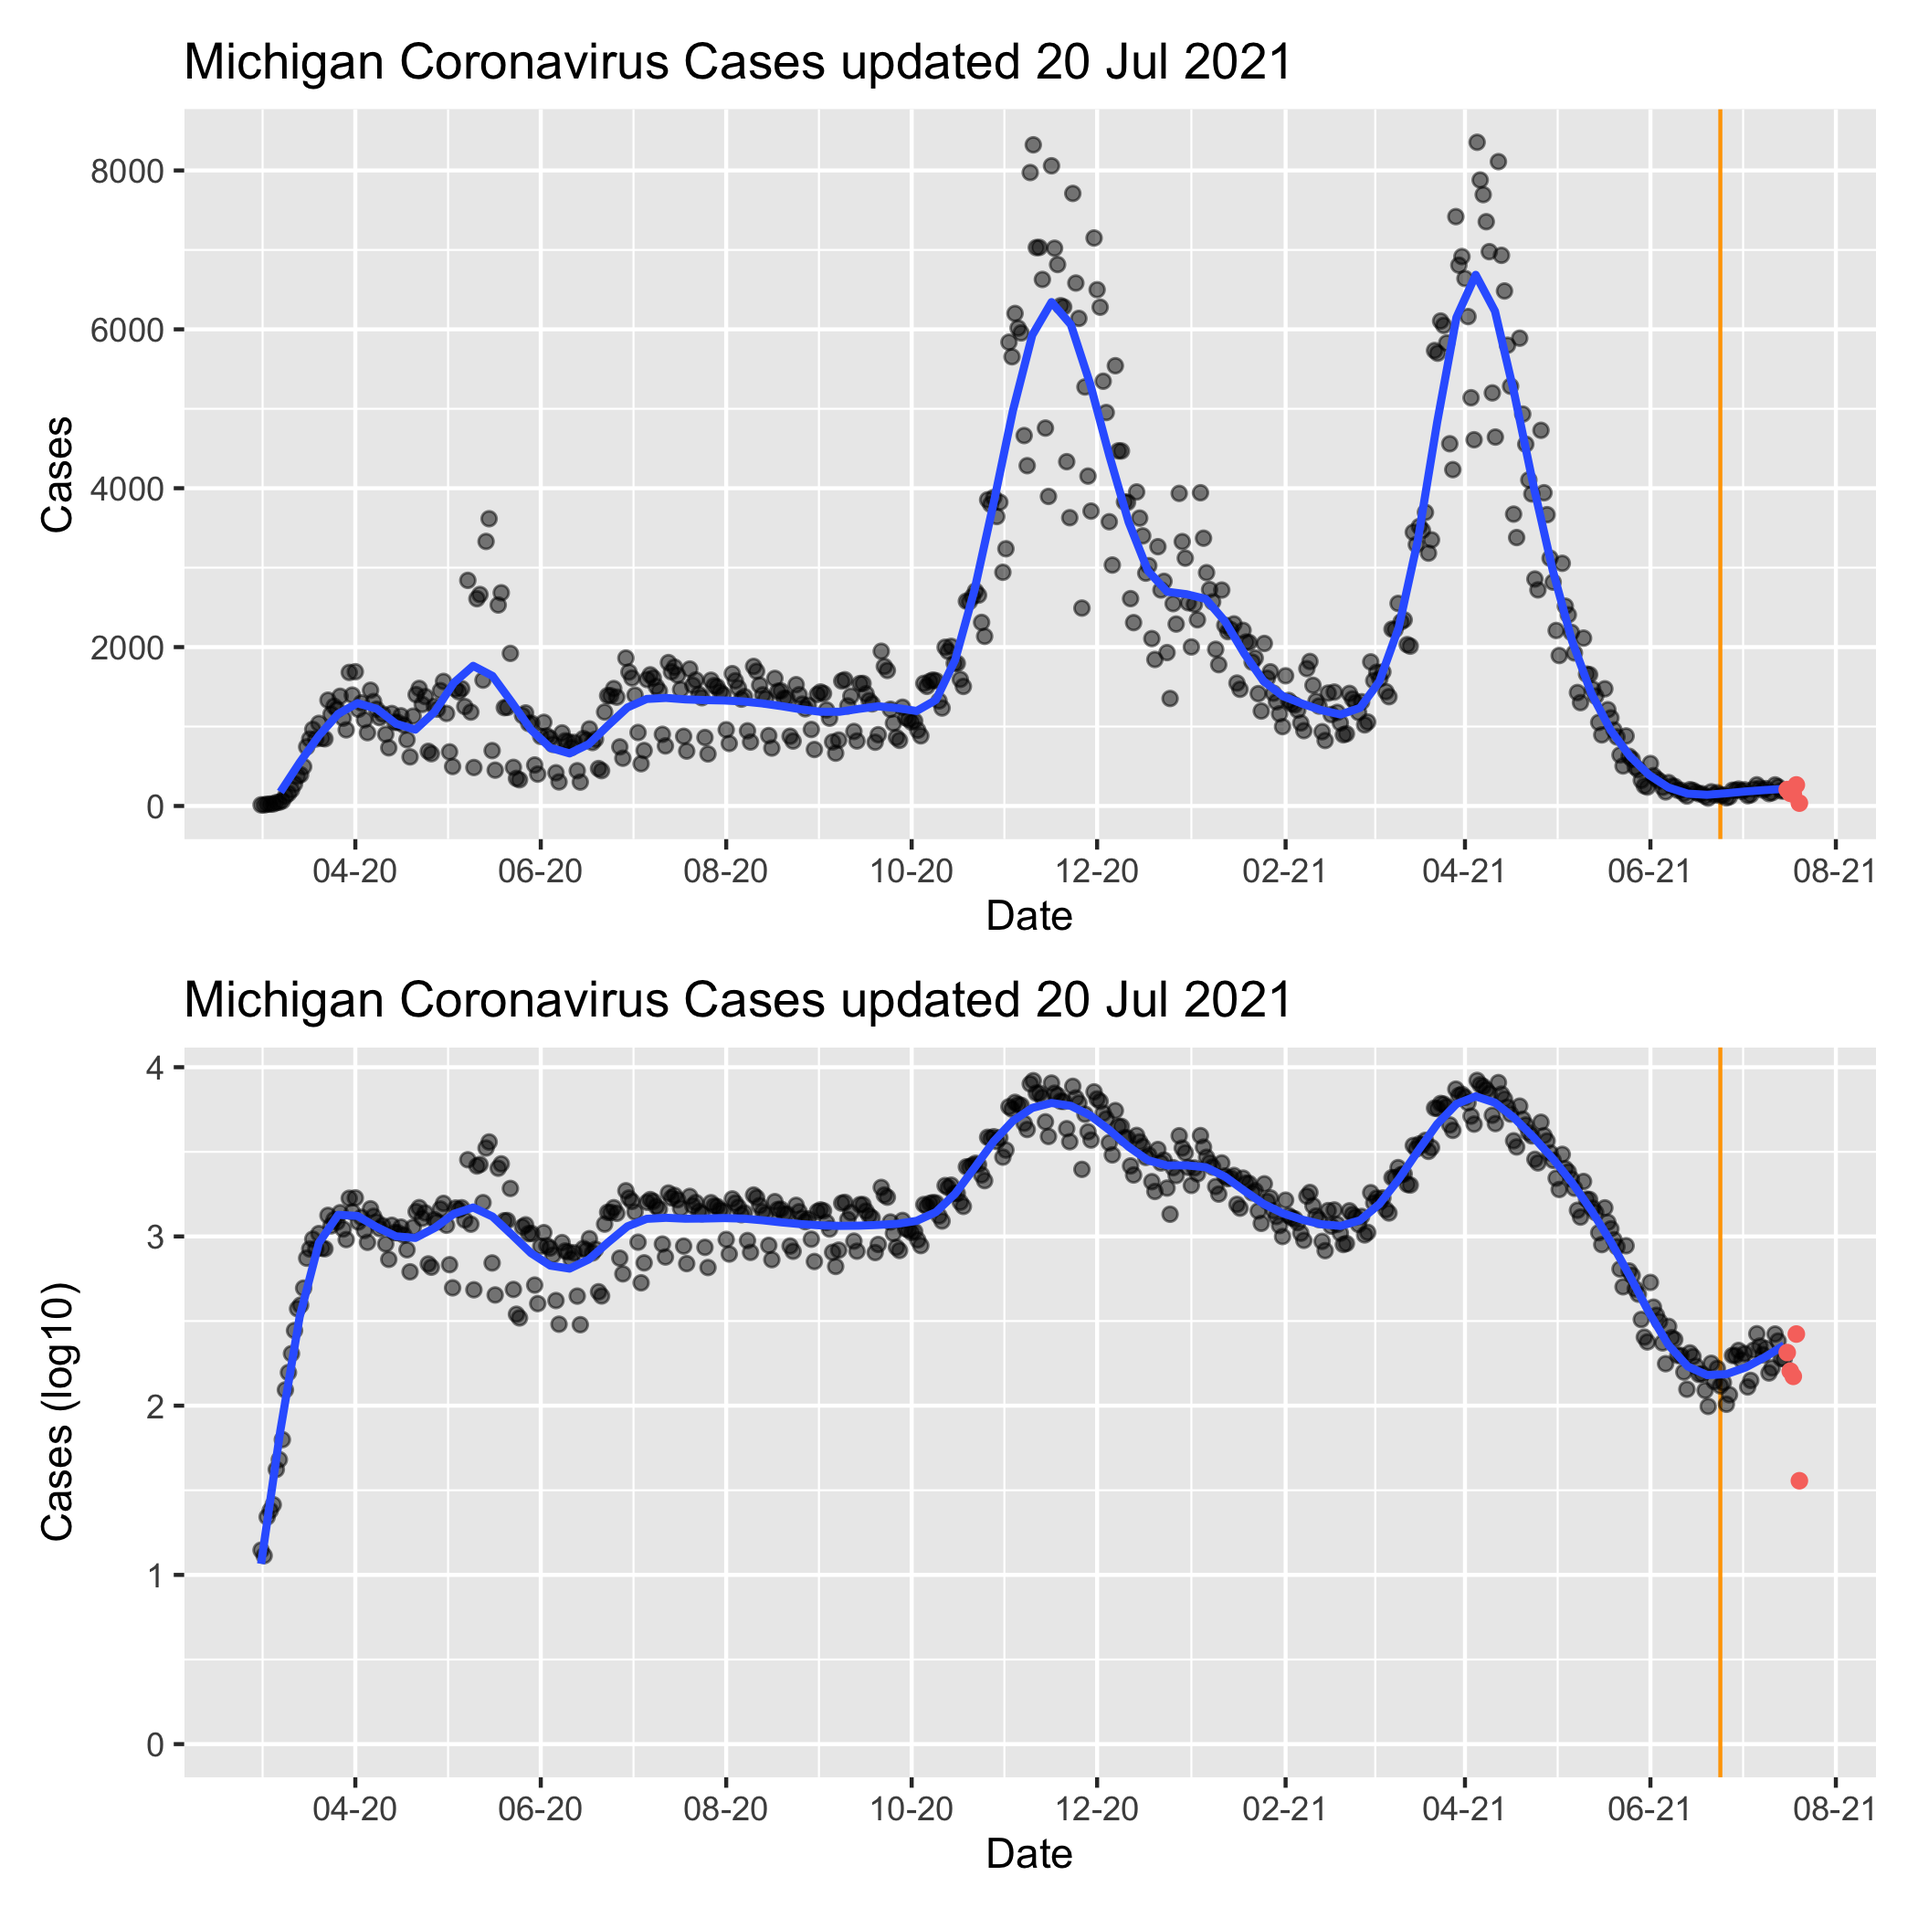
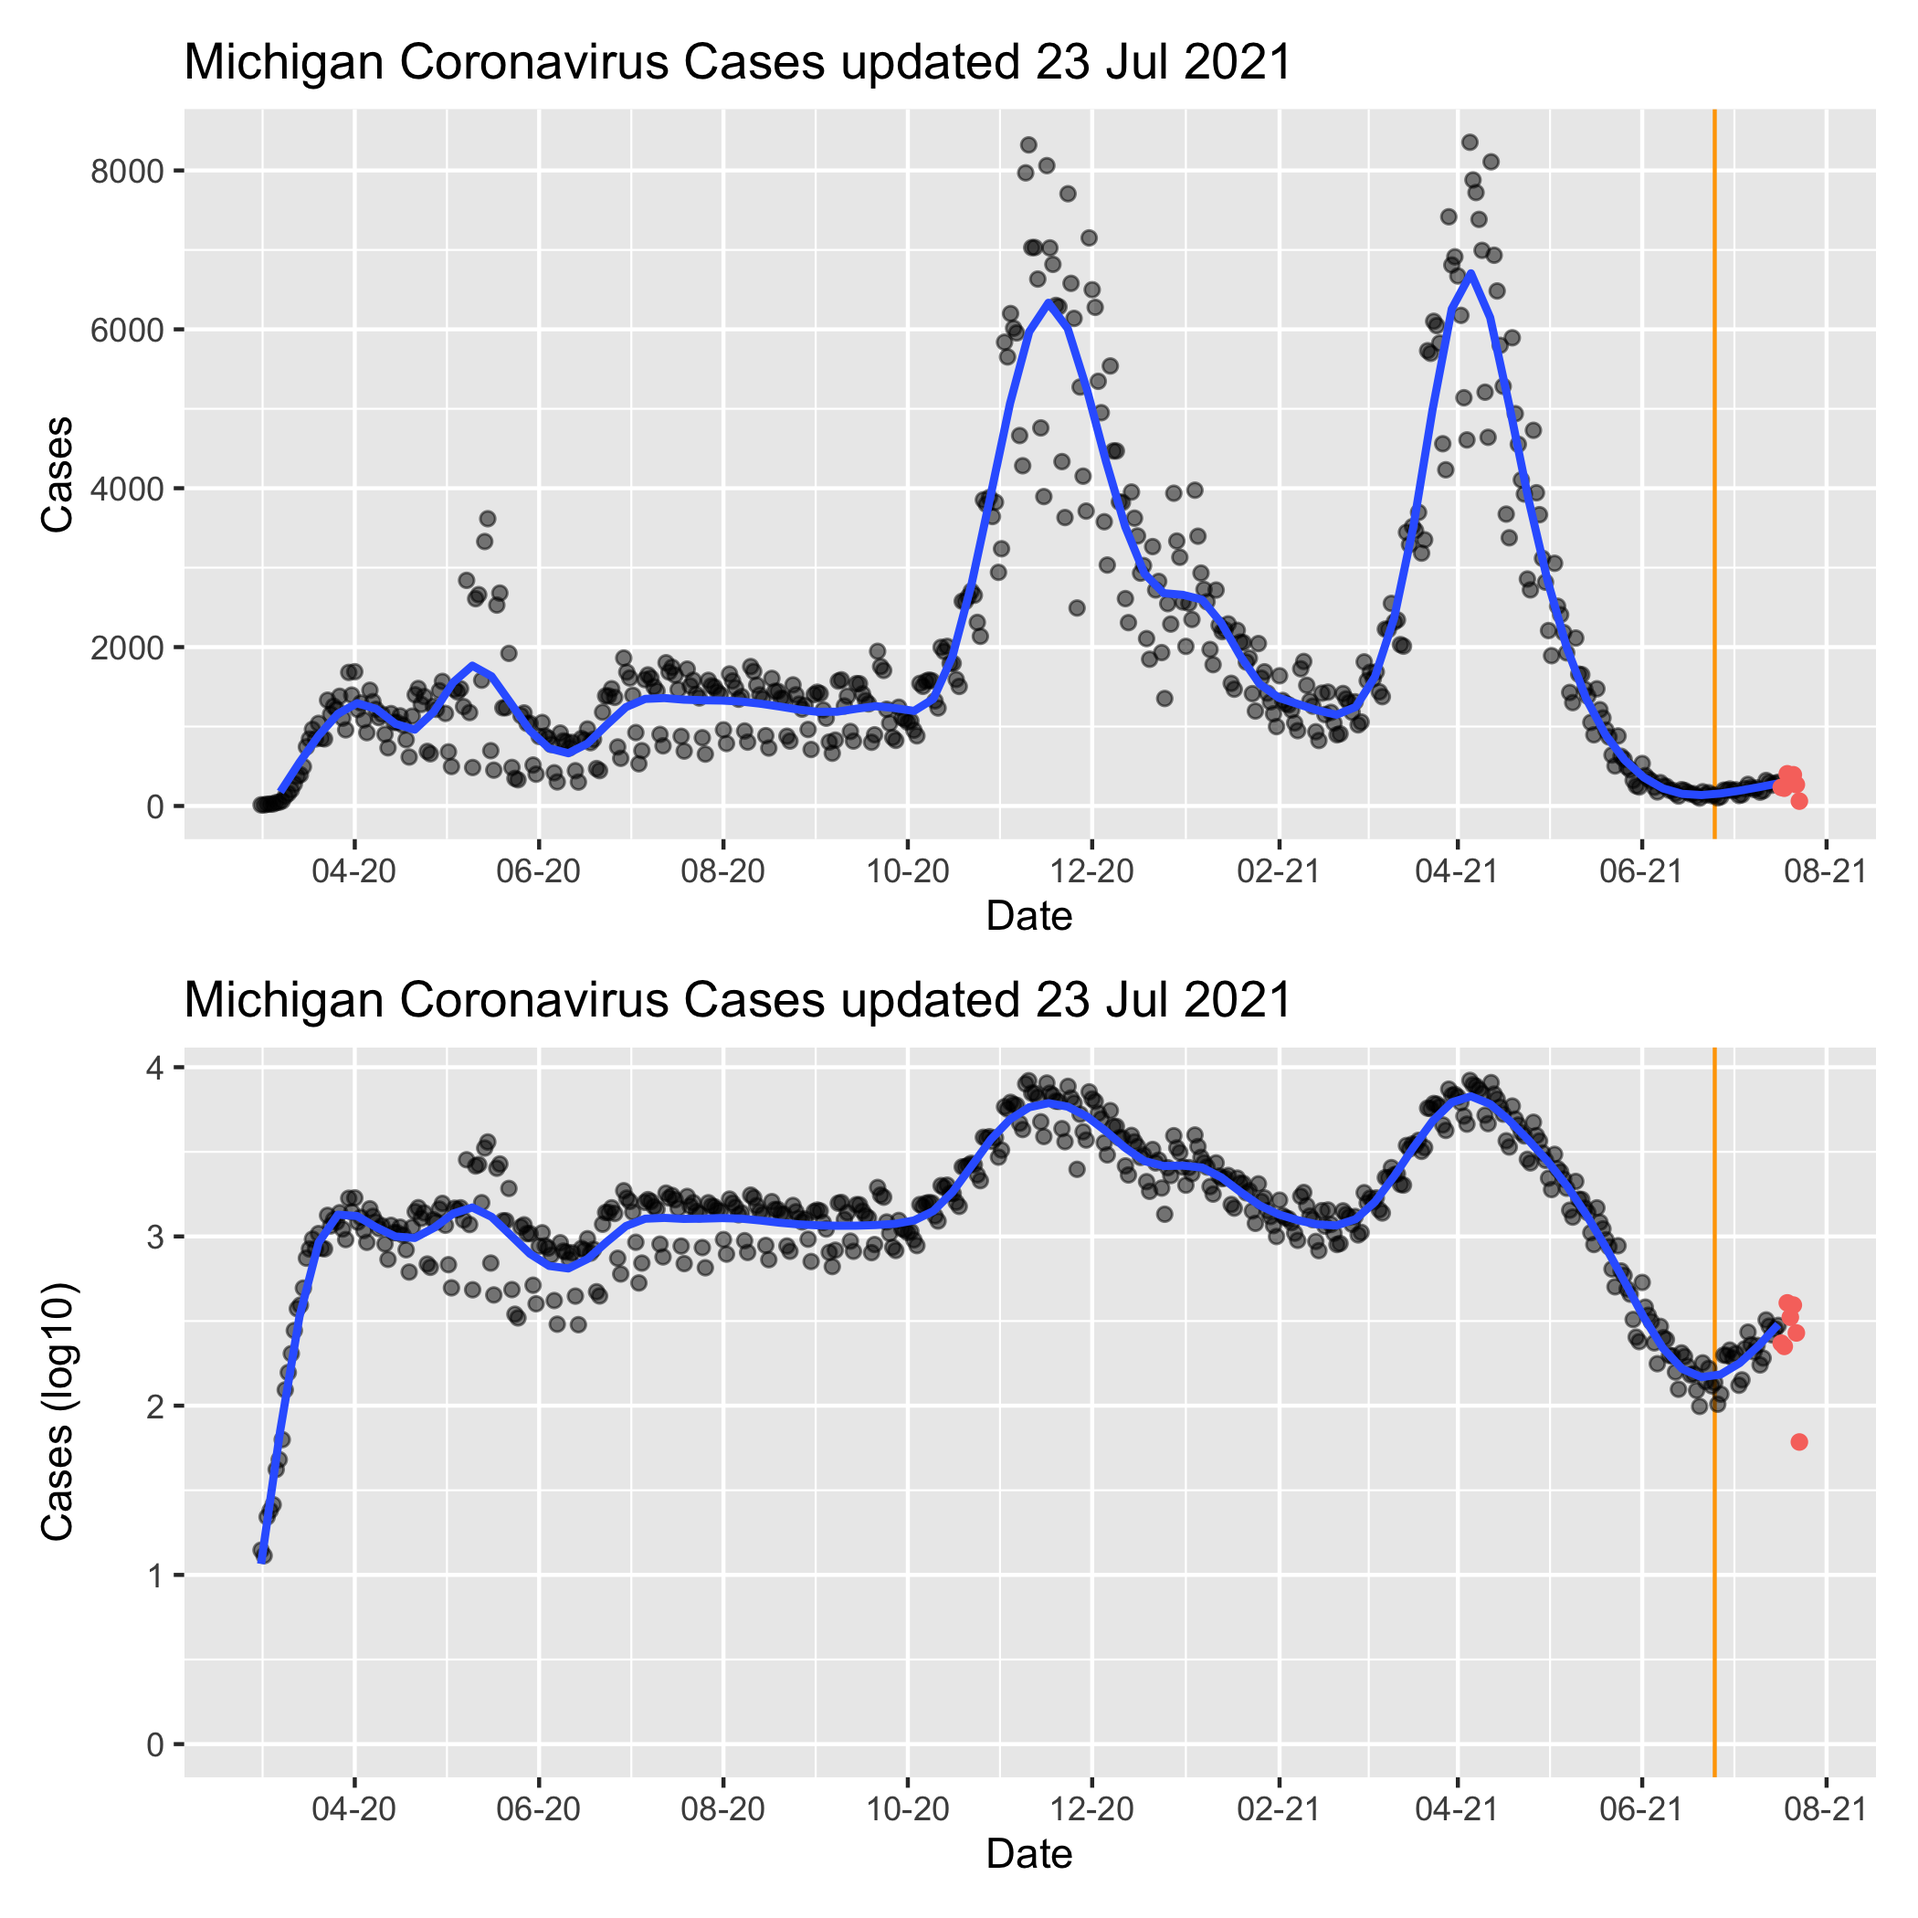
Jul-23 2021 16:17 update

diff --git a/MiCorona.md b/MiCorona.md
@@ -1,7 +1,7 @@
 Michigan COVID Data
 ================
 Adam D. DenHaan
-Jul 22, 2021
+Jul 23, 2021
 
 Get link for data:
 
@@ -48,11 +48,11 @@ mi_data.head()
     ## 4  Alcona 2020-03-05   Confirmed    0.0     0.0               0.0   
     ## 
     ##    Deaths.Cumulative                       Updated  
-    ## 0                0.0 2021-07-20 13:48:58.417499904  
-    ## 1                0.0 2021-07-20 13:48:58.417499904  
-    ## 2                0.0 2021-07-20 13:48:58.417499904  
-    ## 3                0.0 2021-07-20 13:48:58.417499904  
-    ## 4                0.0 2021-07-20 13:48:58.417499904
+    ## 0                0.0 2021-07-23 14:11:09.212600064  
+    ## 1                0.0 2021-07-23 14:11:09.212600064  
+    ## 2                0.0 2021-07-23 14:11:09.212600064  
+    ## 3                0.0 2021-07-23 14:11:09.212600064  
+    ## 4                0.0 2021-07-23 14:11:09.212600064
 
 ``` python
 max_date = max(mi_data["Updated"])
@@ -135,7 +135,7 @@ viz_function(mi_cases_by_day_exclusive, mi_cases_by_day_last4, Date, Deaths, ver
 
 ![](MiCorona_files/figure-gfm/viz2-1.png)<!-- -->
 
-Note that the last 5 days of data have been colored red on the graph, as
+Note that the last 7 days of data have been colored red on the graph, as
 they frequently change as more information becomes available. Vertical
 orange line at 4 weeks in the past (as hospitalizations and deaths
 usually follow cases by three weeks, and the deaths graph regression
